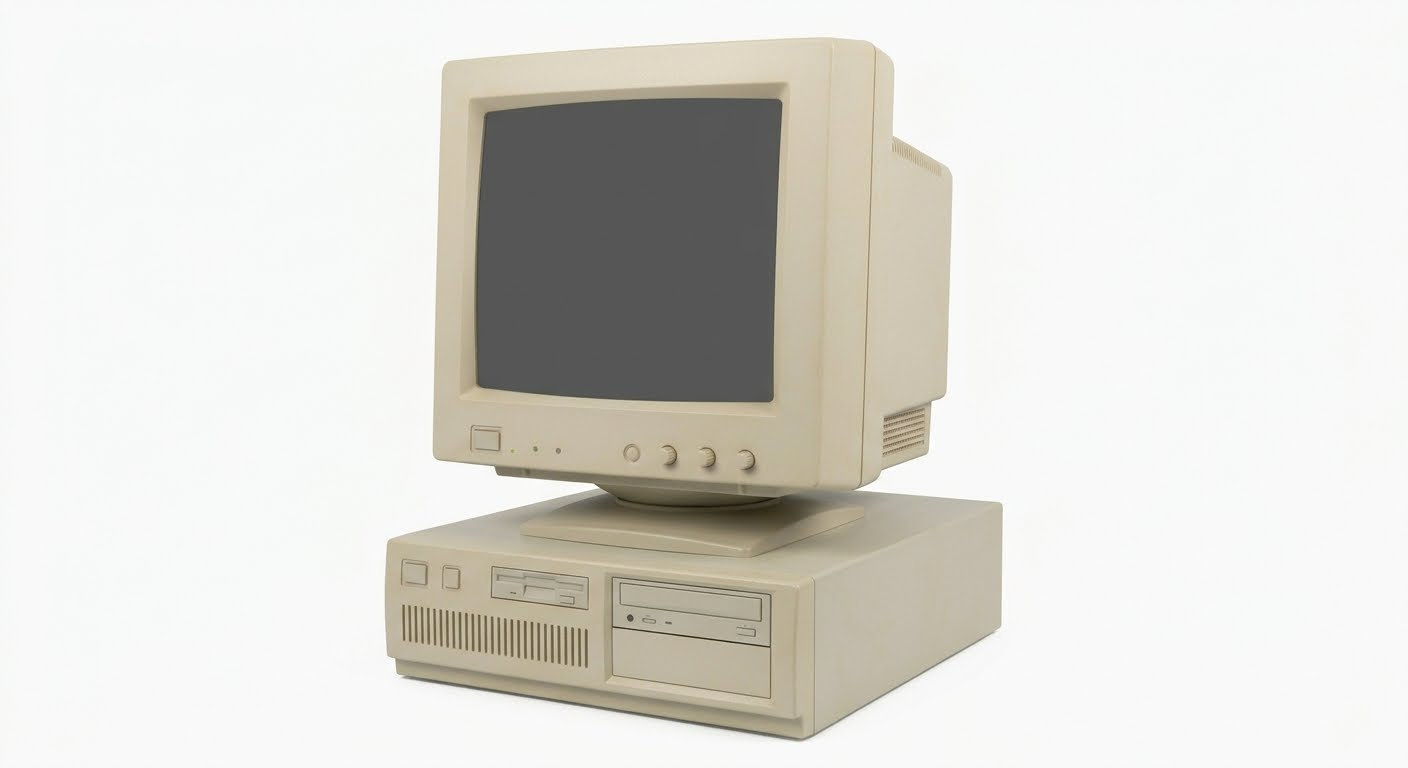
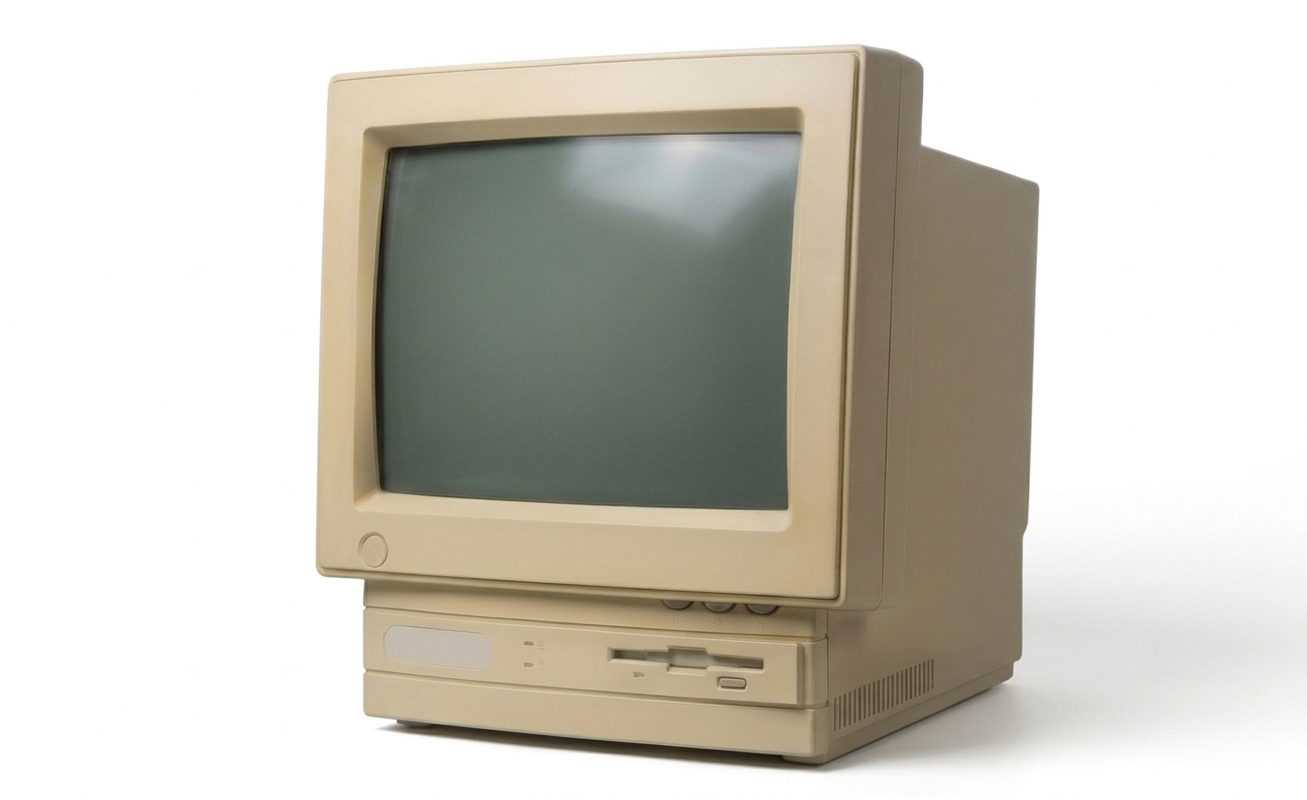
Ports: the beige all-in-one, cut cleanly, and drawn flat to match
Claude-Session: https://claude.ai/code/session_01TGGsTE1DNkb6MQqq6tNzFj

diff --git a/tools/genportscard.py b/tools/genportscard.py
@@ -5,11 +5,11 @@ Ports is not a console, so like Favorites and Muse there is no photograph to
 cut and the cards are generated - the classic one on tools/cardstyle.py, the drawn set's own
 stock, rule and tracked name.
 
-THE MARK is the Fancy Pants card's PC (tools/genportsphoto.py, a mid-90s
-beige monitor on its desktop case) drawn flat from the front, so the two
-themes show the same machine: the monitor with a prompt and cursor on its
-screen, its button, lights and four knobs; the swivel and foot plate; the
-case with its buttons, floppy slot, vent grille and CD drive. Ports come from
+THE MARK is the Fancy Pants card's computer (tools/genportsphoto.py, a
+beige early-90s all-in-one, its CRT over a base unit) drawn flat from the
+front, so the two themes show the same machine: the bezel with a prompt and
+cursor on its screen and its round power button; the base unit with its
+three knobs, label plate, lights, floppy slot and eject button. Ports come from
 the PC. No strokes, as the deck has none. (An arcade stick until 2.7.4.)
 
 THE ACCENT, A0AEC0, a cool steel grey - the color of a PC case, which is
@@ -38,56 +38,46 @@ SS = 4
 
 
 def mark(d, cx, cy, fill, cut, scale=1.0):
-    """The Fancy Pants card's PC in flat shapes, from the front: about 300x326
-    at scale 1, ink centred on (cx, cy). The monitor, its screen knocked out
-    with a prompt and cursor on it, and in its chin the button, the two
-    lights and four knobs; its swivel and foot plate; and the desktop case
-    under it with its two buttons, the floppy slot, the vent grille and the
-    CD drive over a blank bay, all knocked out. No strokes, as the deck has
+    """The Fancy Pants card's computer in flat shapes, from the front: about
+    300x318 at scale 1, ink centred on (cx, cy). The monitor's bezel, its
+    screen knocked out with a prompt and cursor on it and its round power
+    button in the corner; under it, the base unit, a little narrower, with
+    the three knobs along its top, and its blank label plate, two lights, the
+    floppy slot and its eject button knocked out. No strokes, as the deck has
     none."""
     k = SS * scale
-    top = cy - 163 * k
-    # the monitor
-    mw, mh = 236 * k, 196 * k
+    top = cy - 159 * k
+    # the monitor's bezel
+    mw, mh = 300 * k, 222 * k
     mx0 = cx - mw / 2
-    d.rounded_rectangle([mx0, top, mx0 + mw, top + mh], radius=16 * k, fill=fill)
-    sx0, sy0, sx1, sy1 = mx0 + 22 * k, top + 20 * k, mx0 + mw - 22 * k, top + mh - 44 * k
-    d.rounded_rectangle([sx0, sy0, sx1, sy1], radius=12 * k, fill=cut)
-    px, py = sx0 + 24 * k, sy0 + 28 * k
-    t = 11 * k
-    d.polygon([(px, py), (px + 26 * k, py + 22 * k), (px, py + 44 * k),
-               (px, py + 44 * k - t * 1.4), (px + 26 * k - t * 1.1, py + 22 * k), (px, py + t * 1.4)], fill=fill)
-    d.rectangle([px + 40 * k, py + 32 * k, px + 78 * k, py + 44 * k], fill=fill)
-    cyl = top + mh - 22 * k
-    d.rounded_rectangle([mx0 + 20 * k, cyl - 8 * k, mx0 + 44 * k, cyl + 8 * k], radius=3 * k, fill=cut)
-    for dx in (60, 76):
-        r = 3 * k
-        d.ellipse([mx0 + dx * k - r, cyl - r, mx0 + dx * k + r, cyl + r], fill=cut)
-    for n in range(4):
-        r = 8 * k
-        kx = mx0 + mw - (98 - n * 24) * k
-        d.ellipse([kx - r, cyl - r, kx + r, cyl + r], fill=cut)
-    # the swivel and the foot plate
-    y = top + mh
-    d.rectangle([cx - 46 * k, y - 2 * k, cx + 46 * k, y + 12 * k], fill=fill)
-    d.rounded_rectangle([cx - 84 * k, y + 10 * k, cx + 84 * k, y + 24 * k], radius=5 * k, fill=fill)
-    # the desktop case, a gap under the plate
-    cy0 = y + 30 * k
-    cw, ch = 300 * k, 96 * k
-    c0 = cx - cw / 2
-    d.rounded_rectangle([c0, cy0, c0 + cw, cy0 + ch], radius=8 * k, fill=fill)
-    # its two square buttons and the floppy slot
-    for bx in (16, 38):
-        d.rounded_rectangle([c0 + bx * k, cy0 + 16 * k, c0 + (bx + 15) * k, cy0 + 31 * k], radius=2 * k, fill=cut)
-    d.rounded_rectangle([c0 + 64 * k, cy0 + 18 * k, c0 + 136 * k, cy0 + 30 * k], radius=2 * k, fill=cut)
-    # the vent grille
-    for n in range(14):
-        vx = c0 + (16 + n * 9) * k
-        d.rectangle([vx, cy0 + 46 * k, vx + 4 * k, cy0 + 80 * k], fill=cut)
-    # the CD drive over a blank bay
-    d.rounded_rectangle([c0 + 160 * k, cy0 + 14 * k, c0 + 284 * k, cy0 + 44 * k], radius=2 * k, fill=cut)
-    d.rounded_rectangle([c0 + 160 * k, cy0 + 50 * k, c0 + 284 * k, cy0 + 82 * k], radius=2 * k, fill=cut)
-    d.rectangle([c0 + 170 * k, cy0 + 26 * k, c0 + 210 * k, cy0 + 30 * k], fill=fill)
+    d.rounded_rectangle([mx0, top, mx0 + mw, top + mh], radius=12 * k, fill=fill)
+    sx0, sy0, sx1, sy1 = mx0 + 30 * k, top + 26 * k, mx0 + mw - 30 * k, top + mh - 44 * k
+    d.rounded_rectangle([sx0, sy0, sx1, sy1], radius=16 * k, fill=cut)
+    px, py = sx0 + 28 * k, sy0 + 30 * k
+    t = 12 * k
+    d.polygon([(px, py), (px + 28 * k, py + 24 * k), (px, py + 48 * k),
+               (px, py + 48 * k - t * 1.4), (px + 28 * k - t * 1.1, py + 24 * k), (px, py + t * 1.4)], fill=fill)
+    d.rectangle([px + 44 * k, py + 35 * k, px + 86 * k, py + 48 * k], fill=fill)
+    r = 10 * k
+    bx, by = mx0 + 34 * k, top + mh - 21 * k
+    d.ellipse([bx - r, by - r, bx + r, by + r], fill=cut)
+    # the base unit, inset under it, a gap between
+    uw, uh = 262 * k, 88 * k
+    u0, uy = cx - uw / 2, top + mh + 8 * k
+    d.rounded_rectangle([u0, uy, u0 + uw, uy + uh], radius=6 * k, fill=fill)
+    # three knobs along its top, at the right
+    for n in range(3):
+        r = 7 * k
+        kx = u0 + uw - (78 - n * 20) * k
+        d.ellipse([kx - r, uy + 10 * k - r, kx + r, uy + 10 * k + r], fill=cut)
+    # the label plate, two lights, the floppy slot and its eject button
+    d.rounded_rectangle([u0 + 16 * k, uy + 30 * k, u0 + 74 * k, uy + 52 * k], radius=10 * k, fill=cut)
+    for ly in (34, 48):
+        d.rectangle([u0 + 100 * k, uy + ly * k, u0 + 108 * k, uy + (ly + 4) * k], fill=cut)
+    d.rounded_rectangle([u0 + 146 * k, uy + 36 * k, u0 + 236 * k, uy + 44 * k], radius=2 * k, fill=cut)
+    d.rounded_rectangle([u0 + 208 * k, uy + 54 * k, u0 + 228 * k, uy + 62 * k], radius=3 * k, fill=cut)
+    # the line where the drive's panel sits
+    d.rectangle([u0 + 8 * k, uy + 70 * k, u0 + uw - 8 * k, uy + 72 * k], fill=cut)
 
 
 def classic():

diff --git a/tools/genportsphoto.py b/tools/genportsphoto.py
@@ -1,11 +1,12 @@
 #!/usr/bin/env python3
 """Cut res/cards/fancy/PORTS.png, Ports' card in Fancy Pants, from
-res/cards/fancy/source/ports-pc.png: a mid-90s beige PC, its monitor on its
-desktop case, on a white studio backdrop (res/cards/fancy/SOURCE.md).
+res/cards/fancy/source/ports-pc.png: a beige early-90s all-in-one, its CRT
+over a base unit, on a white studio backdrop (res/cards/fancy/SOURCE.md).
 
 The object is told from the backdrop by colour, not brightness: the beige
-plastic is warm (red well over blue) and the screen and vents are dark, while
-the backdrop and its soft floor shadow are neutral. Its outline is smoothed,
+plastic is warm (red over blue by more than 22) and the vents are dark, while
+the backdrop and its soft floor shadow are near neutral; the screen, enclosed
+by the bezel, is filled in. Its outline is smoothed,
 pulled in a pixel so no backdrop rims it, and feathered a pixel. The plastic
 is cleaned of the picture's speckle (a 3x3 median), a fifth of the yellow
 cast comes out of the beige, as a white-balanced studio shot shows it, and
@@ -28,7 +29,7 @@ OUT = os.path.join(ROOT, "res", "cards", "fancy", "PORTS.png")
 def main():
     src = Image.open(SRC).convert("RGB")
     a = np.asarray(src).astype(np.float64)
-    obj = ((a[..., 0] - a[..., 2]) > 11) | (a.mean(-1) < 190)
+    obj = ((a[..., 0] - a[..., 2]) > 22) | (a.mean(-1) < 100)
     obj = ndimage.binary_opening(obj, iterations=2)
     lab, n = ndimage.label(obj)
     obj = lab == 1 + np.argmax(ndimage.sum(obj, lab, range(1, n + 1)))

diff --git a/res/cards/fancy/SOURCE.md b/res/cards/fancy/SOURCE.md
@@ -66,8 +66,9 @@ scaled as above, longest side 96% of 384.
 
 ## PORTS.png
 
-Not a console: Ports' card, a mid-90s beige PC, its CRT monitor on its
-desktop case, supplied by SkyWalker541 on 2026-11-21 for this card
+Not a console: Ports' card, a beige early-90s all-in-one computer, its CRT
+over a base unit with a floppy drive, supplied by SkyWalker541 on 2026-11-21
+for this card
 (`source/ports-pc.png`, kept here). `tools/genportsphoto.py` cuts it from its
 white backdrop, cleans and white-balances it toward the set and frames it as
 above. It has no maker's name on it. It replaced a rendered arcade stick
